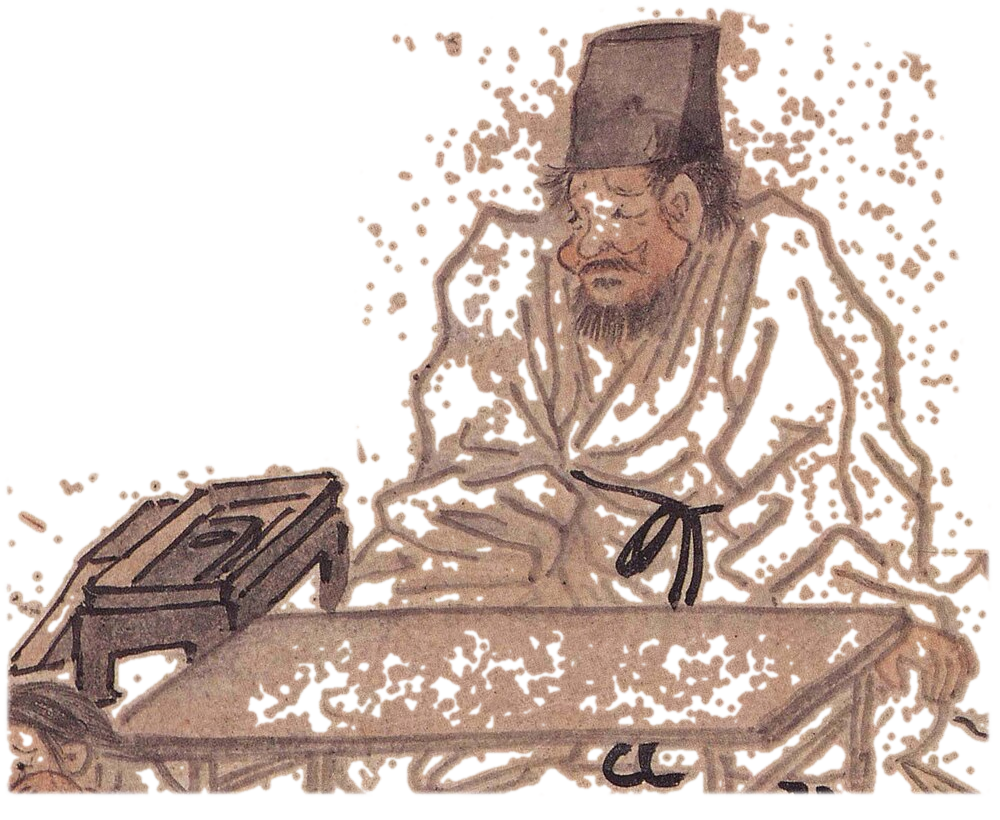
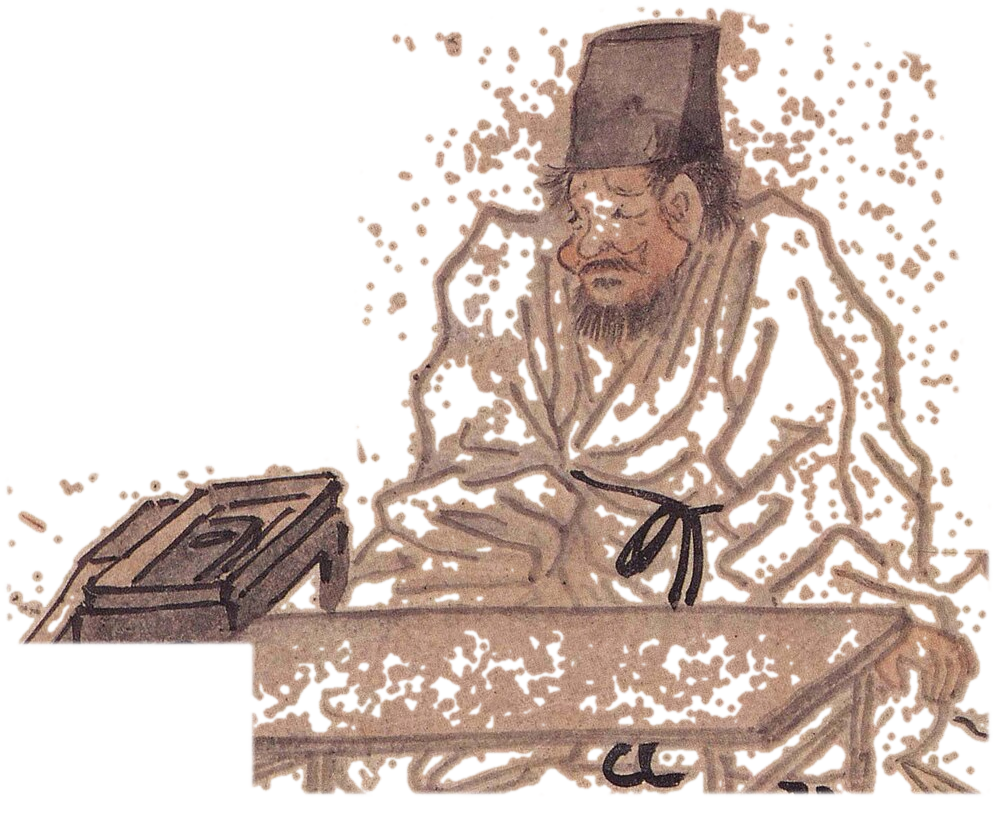
훈장 컷에서 아이 얼굴 제외, 선염 두 방울 분리

Changed region(s): [[0.0, 0.7622, 0.279, 0.9756]]

diff --git a/src/components/minhwa/ArtStage.vue b/src/components/minhwa/ArtStage.vue
@@ -170,8 +170,8 @@ const mkSat = (seed, n) =>
     return { dx: Math.cos(a) * d, dy: Math.sin(a) * d * 0.85, r: 10 + ((seed * 11 + k * 41) % 34) }
   })
 const inkBlots = [
-  { x: 430, y: 400, t: 0.05, max: 980, sat: mkSat(3, 10) },
-  { x: 600, y: 500, t: 0.18, max: 860, sat: mkSat(8, 8) },
+  { x: 300, y: 330, t: 0.05, max: 820, sat: mkSat(3, 10) },
+  { x: 705, y: 560, t: 0.2, max: 760, sat: mkSat(8, 8) },
 ]
 const blotT = (b) => easeOut(clamp01((wprog.value - b.t) / 0.4))
 const blotR = (b) => (blotT(b) * b.max).toFixed(1)
@@ -521,8 +521,8 @@ const snowFlakes = Array.from({ length: 24 }, (_, i) => ({
   background: radial-gradient(circle at 40% 28%, #4a4038, #221c16);
   animation: inkFall 2.1s cubic-bezier(0.5, 0, 0.9, 0.4) infinite;
 }
-.wd1 { left: 43%; animation-delay: 0s; }
-.wd2 { left: 60%; animation-delay: 0.9s; }
+.wd1 { left: 30%; animation-delay: 0s; }
+.wd2 { left: 70%; animation-delay: 1.1s; }
 .wd3 { left: 46%; animation-delay: 1.2s; }
 .wd4 { left: 63%; animation-delay: 1.7s; width: 6px; height: 10px; }
 @keyframes inkFall {
